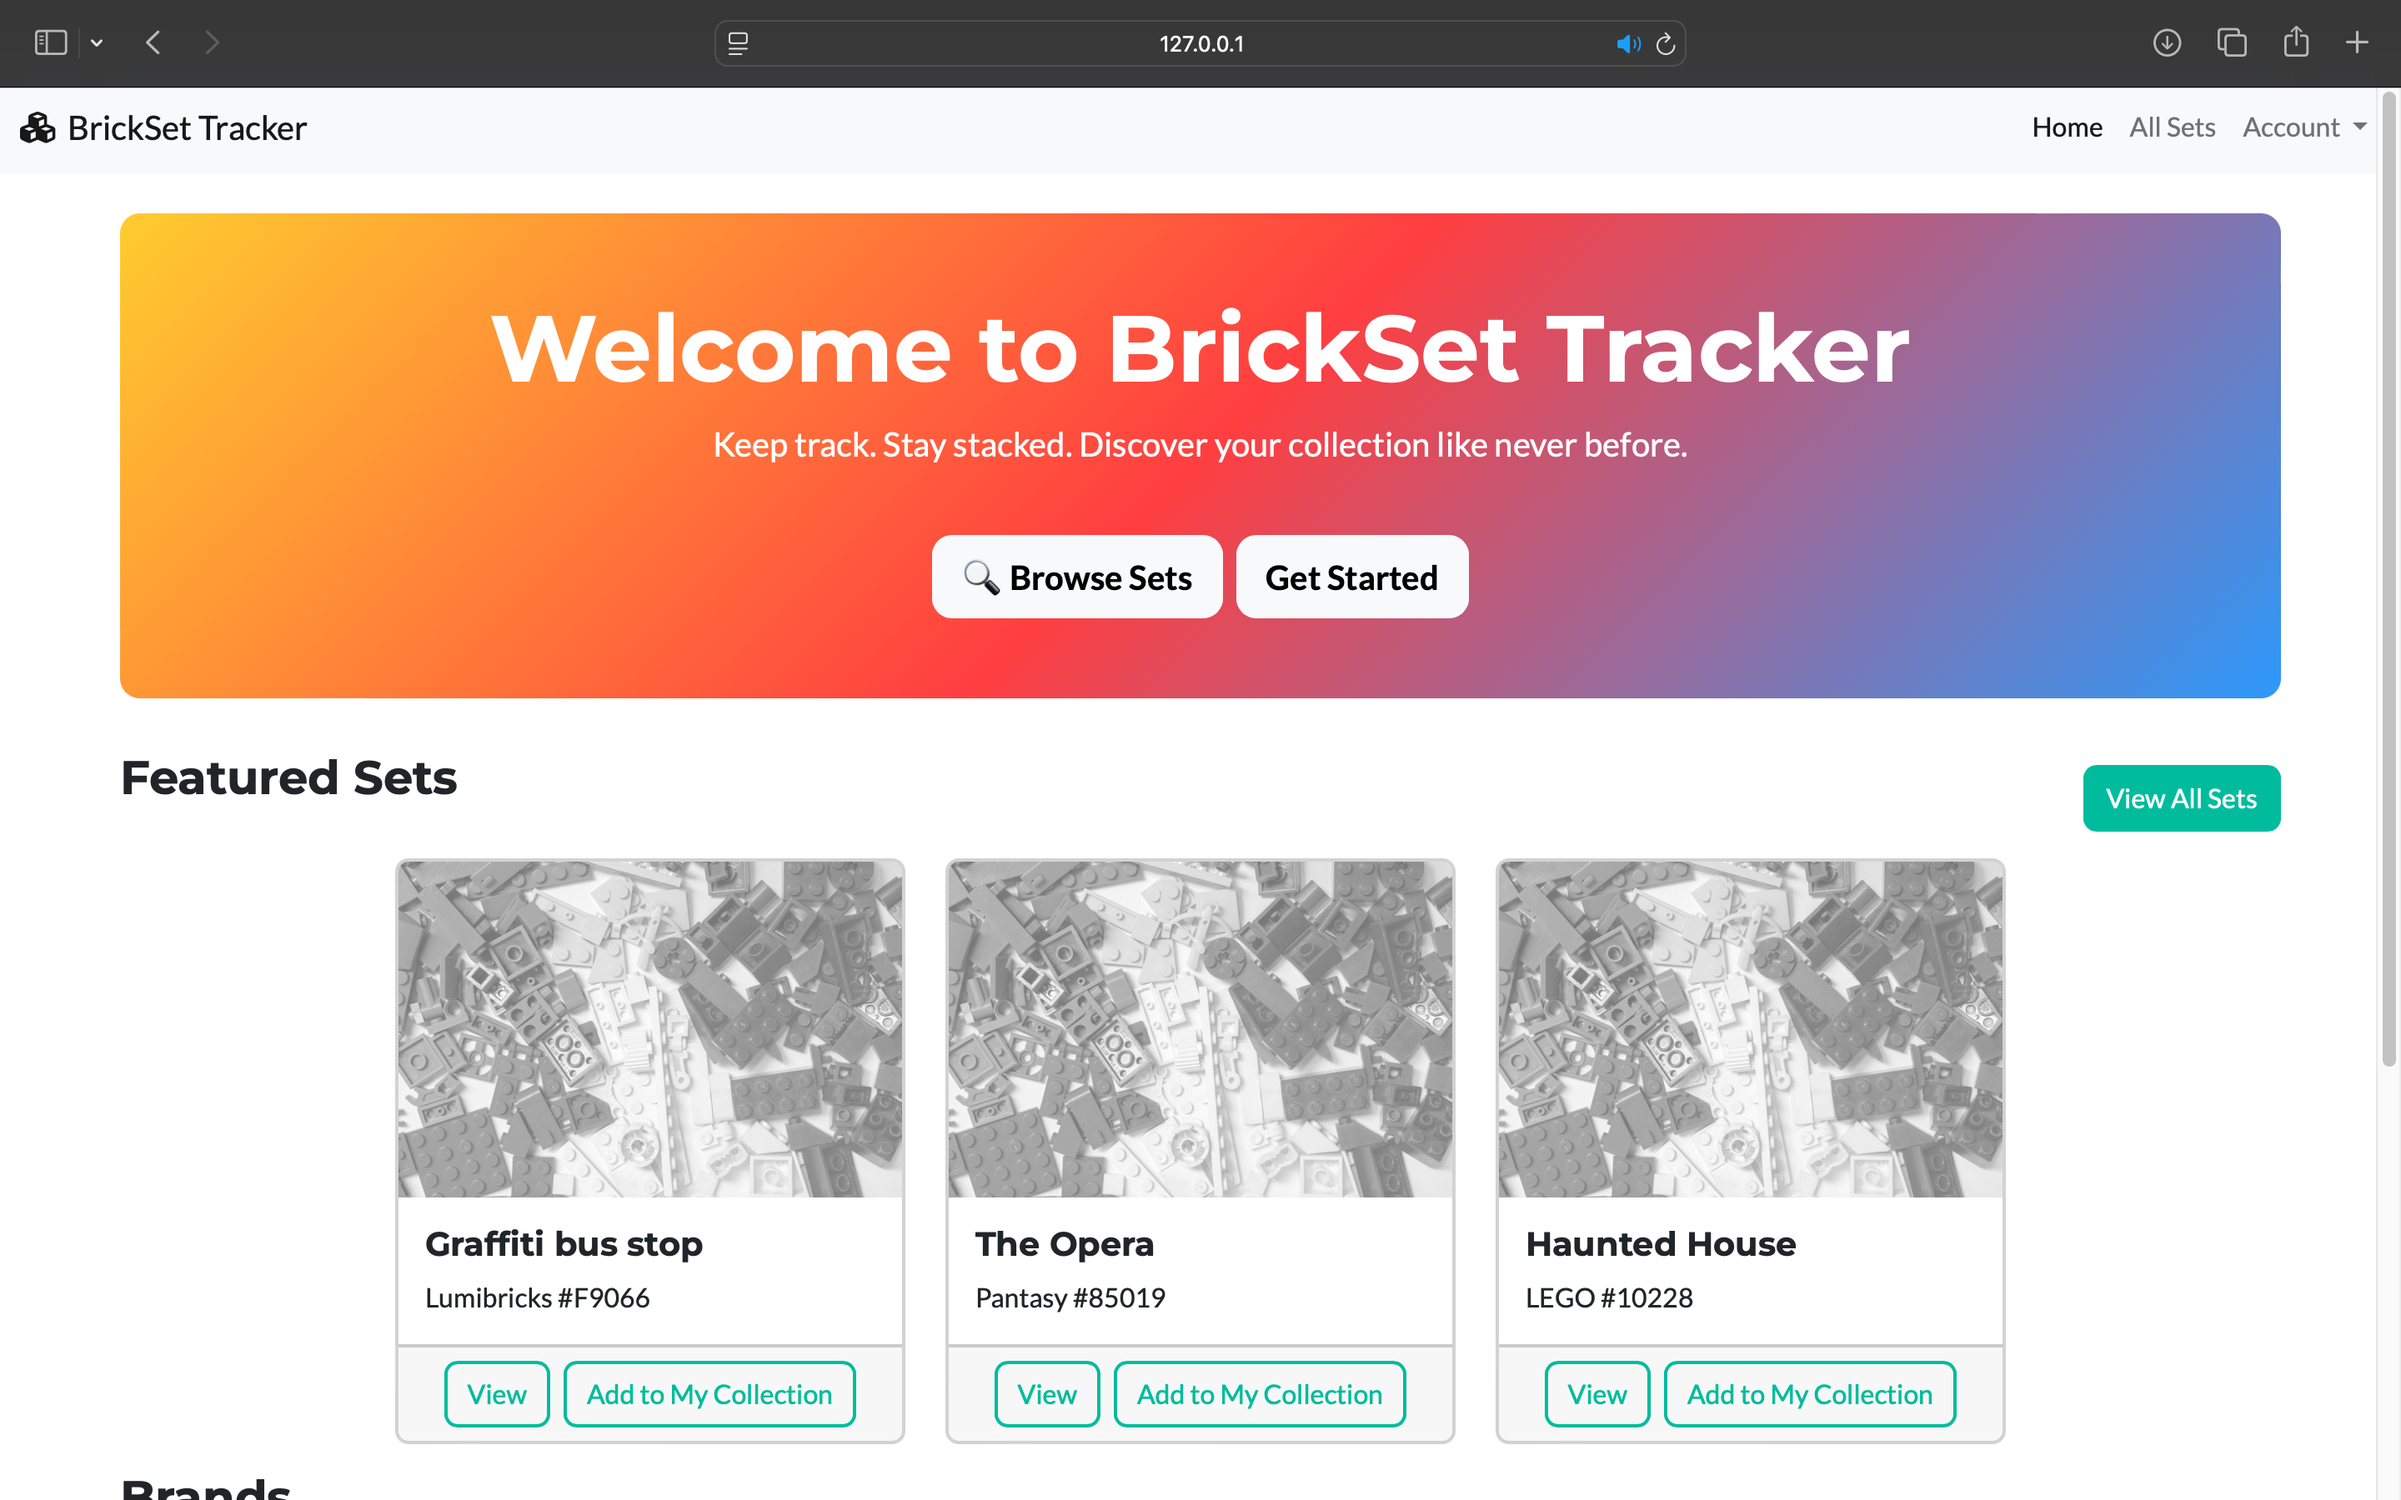
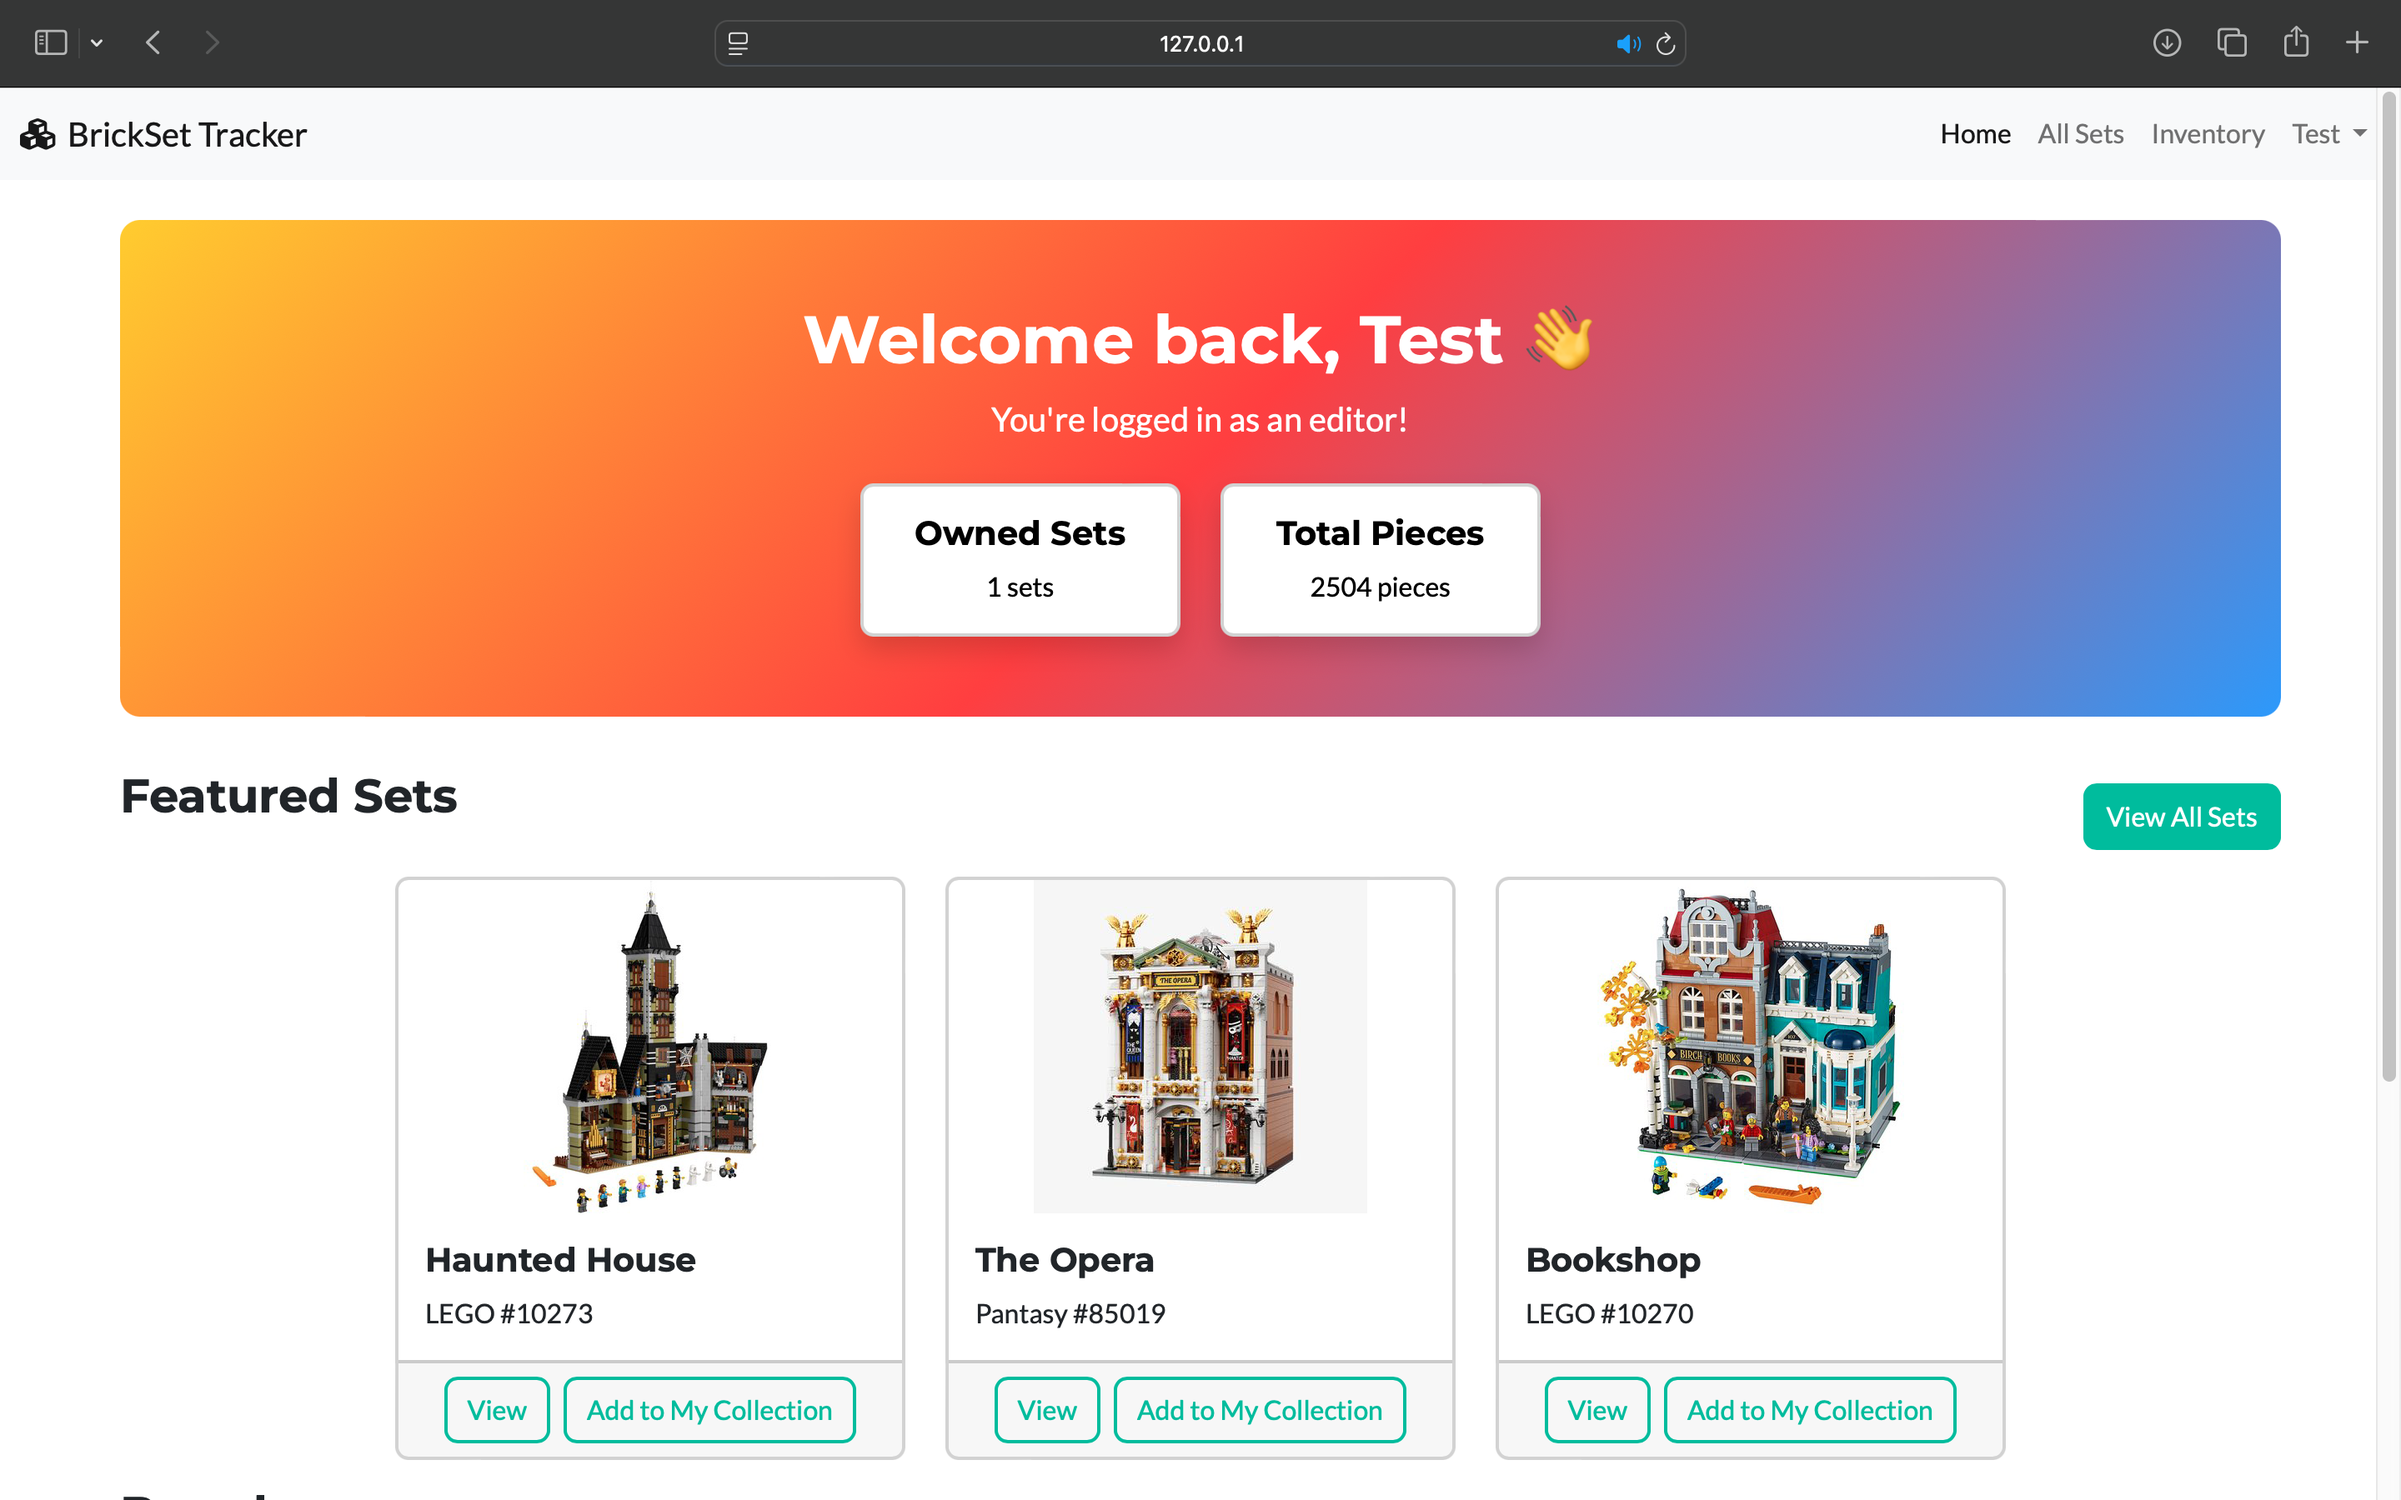
Added image support and a sample.db

diff --git a/brickset_tracker/templates/_brand_cards.html b/brickset_tracker/templates/_brand_cards.html
@@ -5,7 +5,7 @@
         <div class="flex-shrink-0" style="max-width: 200px; min-width: 200px;">
         <a href="?" class="text-decoration-none">
         <div class="card h-100 {% if not brand_filter %}border-primary{% endif %}">
-            <img src="/static/assets/img/bricks_2.jpeg" class="card-img-top" alt="All brands">
+            <img class="grayscale-image" src="/static/assets/img/bricks_2.jpeg" class="card-img-top" alt="All brands">
             <div class="card-body text-center">
             <h5 class="card-title">All Brands</h5>
             <p class="card-text">Show everything</p>
@@ -21,7 +21,7 @@
             <a href="{{ url_for('inventory', brand=brand) }}" class="text-decoration-none">
 
             <div class="card h-100 {% if brand == brand_filter %}border-primary{% endif %}" data-filter="{{ brand }}">
-                <img src="/static/assets/img/bricks_2.jpeg" class="card-img-top" alt="...">
+                <img class="grayscale-image" src="/static/assets/img/bricks_2.jpeg" class="card-img-top" alt="...">
                 <div class="card-body">
                 <h5 class="card-title">{{ brand }}</h5>
                 <p class="card-text">{{ count }} set(s)</p>
@@ -37,7 +37,7 @@
         <div class="flex-shrink-0" style="max-width: 200px; min-width: 200px;">
             <a href="{{ url_for('list_sets', brand=brand.name) }}" class="text-decoration-none">
             <div class="card h-100 {% if brand == brand_filter %}border-primary{% endif %}" data-filter="{{ brand }}">
-                <img src="/static/assets/img/bricks_2.jpeg" class="card-img-top" alt="...">
+                <img class="grayscale-image" src="/static/assets/img/bricks_2.jpeg" class="card-img-top" alt="...">
                 <div class="card-body">
                 <h5 class="card-title">{{ brand.name }}</h5>
                 <p class="card-text">{{ brand.description or "No description!" }}</p>

diff --git a/brickset_tracker/templates/_set_cards.html b/brickset_tracker/templates/_set_cards.html
@@ -1,7 +1,7 @@
 <style>
-    img {
-        filter: grayscale(1);
-        opacity: 0.55;
+    .set-image {
+        height: 200px;
+        object-fit: contain;
     }
 </style>
 
@@ -9,7 +9,11 @@
     {% for set in sets %}
     <div class="col">
         <div class="card h-100">
-            <img src="/static/assets/img/bricks_1.jpeg" class="card-img-top" alt="...">
+            {% if set.image_url %}
+                <img loading="lazy" src="{{ get_set_thumbnail_url(set.image_url) }}" class="card-img-top set-image"  alt="{{ set.name }}">
+            {% else %}
+                <img loading="lazy" class="grayscale-image" src="/static/assets/img/bricks_1.jpeg" class="card-img-top" alt="...">
+            {% endif %}
             <div class="card-body">
               <h5 class="card-title">{{ set.name }}</h5>
               <p class="card-text">{{ set.brand.name }} #{{ set.set_id }}</p>

diff --git a/brickset_tracker/templates/base.html b/brickset_tracker/templates/base.html
@@ -14,6 +14,13 @@
     <link href="https://fonts.googleapis.com/css?family=Lato:400,700,400italic,700italic" rel="stylesheet" type="text/css" />
     
     <link href="{{ url_for('static', filename='css/styles.css') }}" rel="stylesheet" />
+
+    <style>
+        .grayscale-image {
+            filter: grayscale(1);
+            opacity: 0.55;
+        }
+    </style>
 </head>
 <body>
     {% set current = request.endpoint %}

diff --git a/brickset_tracker/routes.py b/brickset_tracker/routes.py
@@ -151,7 +151,7 @@ def register_routes(app, db, bcrypt):
             db.session.commit()
 
         return redirect(request.referrer or url_for('home'))
-    
+
 
     @app.context_processor
     def utility_processor():
@@ -172,4 +172,13 @@ def register_routes(app, db, bcrypt):
         def total_pieces_owned():
             return sum(set.pieces for set in current_user.owned_sets if set.pieces)
         
-        return dict(is_active=is_active, is_current=is_current, is_selected_brand=is_selected_brand, total_pieces_owned=total_pieces_owned)
+        def get_set_thumbnail_url(image_url, size='400x400p'):
+            # rebrickable thumbnail url
+            if image_url and 'rebrickable.com/media/sets/' in image_url:
+                set_id = image_url.split('/')[-1].split('.')[0]
+                return f"https://cdn.rebrickable.com/media/thumbs/sets/{set_id}.jpg/{size}.jpg"
+            
+            return image_url
+   
+
+        return dict(is_active=is_active, is_current=is_current, is_selected_brand=is_selected_brand, total_pieces_owned=total_pieces_owned, get_set_thumbnail_url=get_set_thumbnail_url)

diff --git a/brickset_tracker/models.py b/brickset_tracker/models.py
@@ -25,11 +25,11 @@ class User(db.Model, UserMixin):
 class SetModel(db.Model):
     __tablename__ = 'sets'
     sid = db.Column(db.Integer, primary_key=True)
-    set_id = db.Column(db.String(100), nullable=False)  # should be unique
+    set_id = db.Column(db.String(100), nullable=False)  # unique
     name = db.Column(db.String(100), nullable=False)
     pieces = db.Column(db.Integer)
     year = db.Column(db.Integer)
-    image_url = db.Column(db.String(200))
+    image_url = db.Column(db.String(200)) # /static/images/set_image.jpg
 
     # 1 to many
     brand_id = db.Column(db.Integer, db.ForeignKey('brands.bid'), nullable=False)

diff --git a/README.md b/README.md
@@ -12,7 +12,9 @@ Here are a some preview shots of the web app.
 
 ### Home / Set list View
 <div align="center">
+<img src="screenshots/home_view_guest.png" center width="75%">
 <img src="screenshots/home_view.png" center width="75%">
+<p>Once logged in, users see some statistics showing the total number of sets they own and the overall piece count.</p>
 <img src="screenshots/set_list.png" width="75%">
 </div>
 
@@ -20,6 +22,14 @@ Here are a some preview shots of the web app.
 <div align="center">
 <img src="screenshots/owned_sets.png" width="75%">
 </div>
+
+# Sample Database
+The sample.db has been pre-loaded with data, so you don't need to set up your own database.
+It has some brick brands and sets added and a user with an editor role. 
+The example sets are sourced from [Rebrickable's Free LEGO Catalog Database](https://rebrickable.com/downloads/).
+
+- Username: test
+- Password: 1234
 
 ## Tech
 - Python + Flask + SQLAlchemy
@@ -60,7 +70,6 @@ If no SQLALCHEMY_DATABASE_URI is provided, the app will automatically use a loca
 ## To Do
 - Add HTML page for viewing set details
 - Add proper input validation and visible error messages for forms
-- Display images of the given brick set
 - Replace Flask-Login with JWT
 - Create a standalone frontend
 
@@ -70,3 +79,5 @@ If no SQLALCHEMY_DATABASE_URI is provided, the app will automatically use a loca
 ## Credits
 - Mourizal Zativa -- bricks_1.jpeg: [Link](https://unsplash.com/photos/blue-red-and-yellow-lego-blocks-OSvN1fBcXYE)
 - Xavi Cabrera -- bricks_2.jpeg: [Link](https://unsplash.com/photos/yellow-red-blue-and-green-lego-blocks-kn-UmDZQDjM)
+
+    Note: The LEGO sets, as well as those from other brands like Lumibricks (Previously Funwhole) and Pantasy, shown in the screenshots are used for illustrative purposes only. They are not part of the app's functionality. This project is intended to showcase my work, and no copyright infringement is intended.
